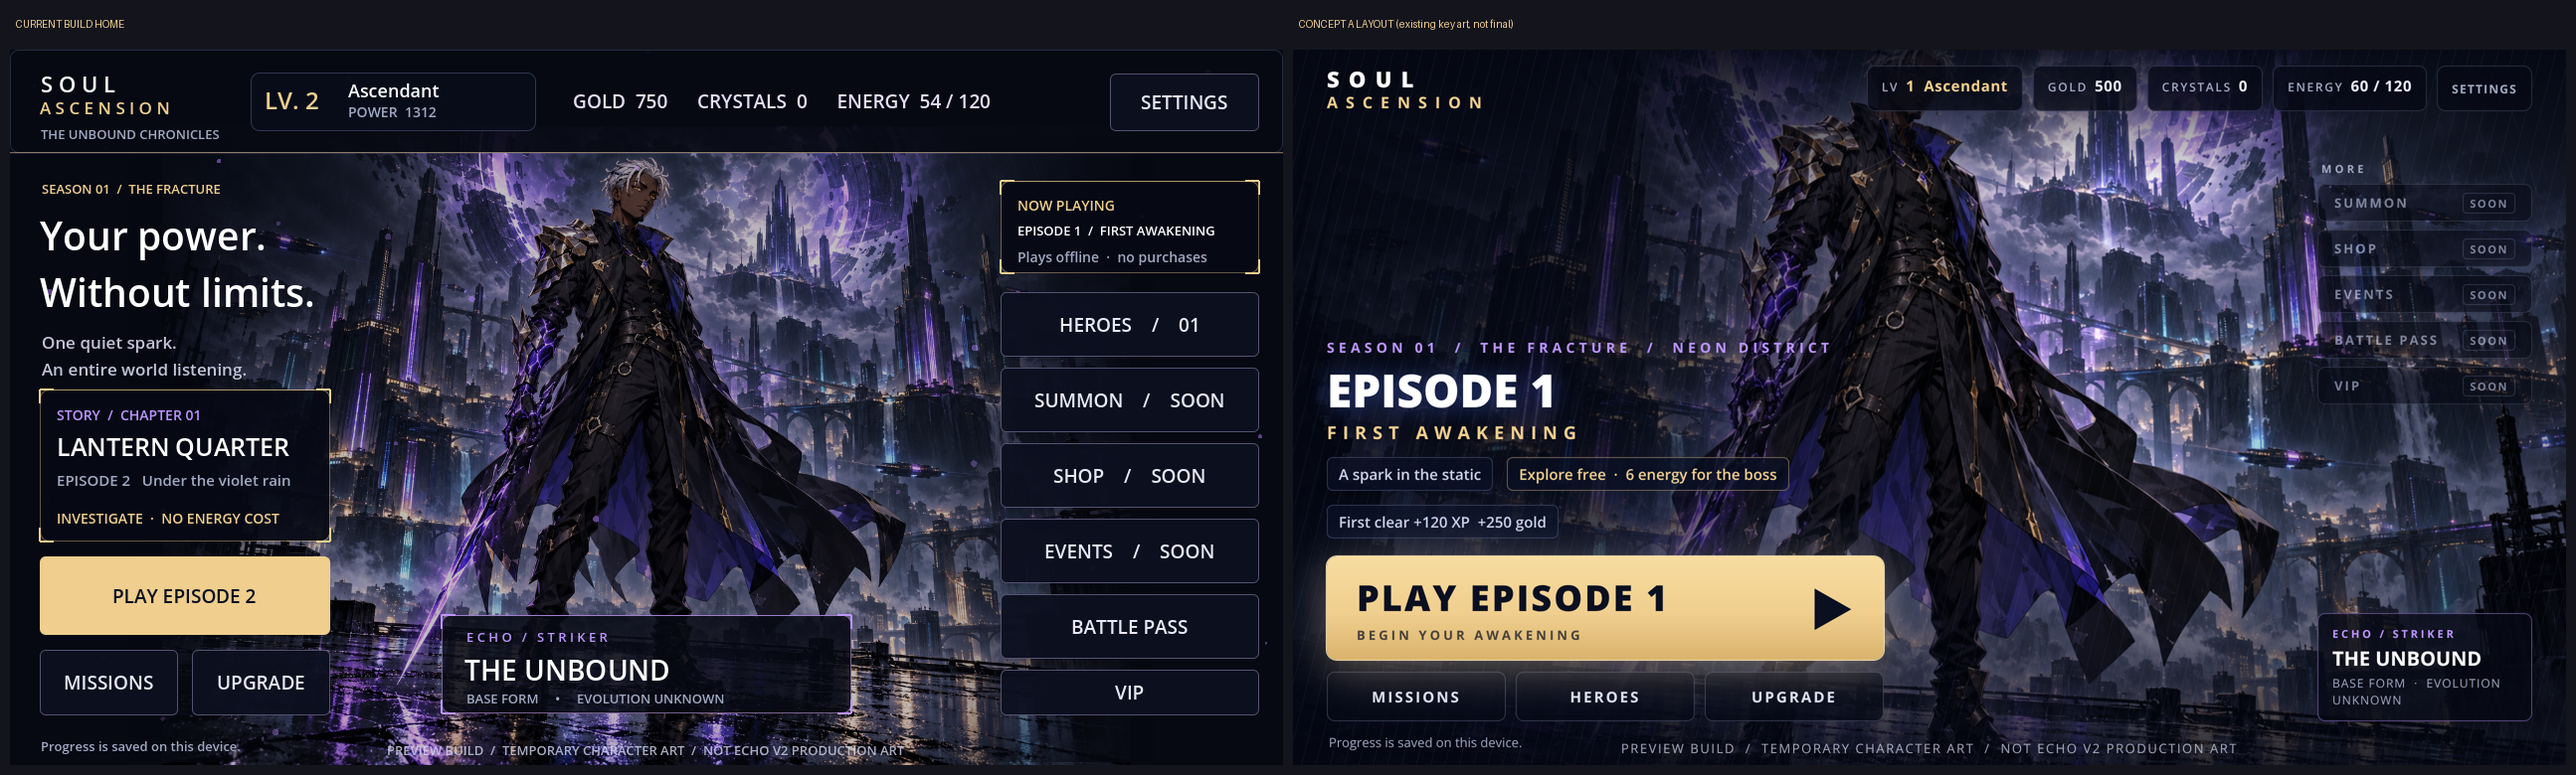
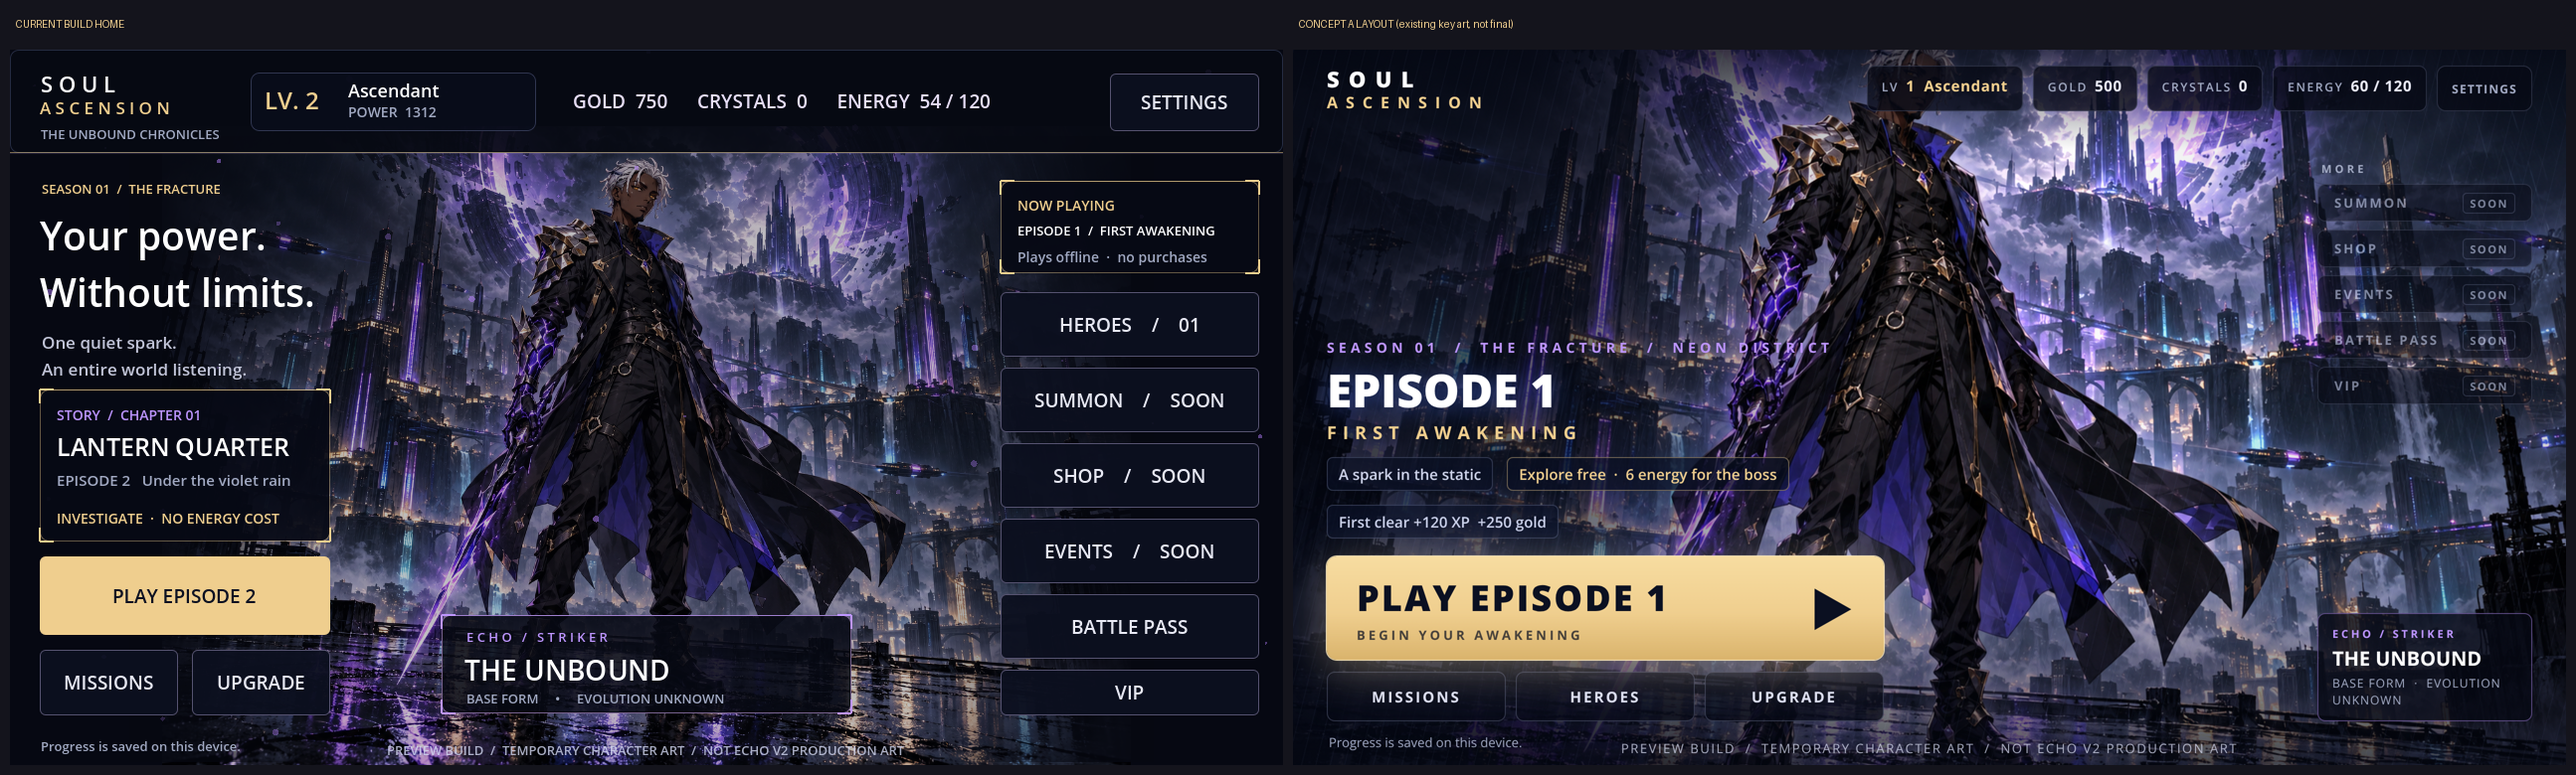
Concept A layout: lighter overlays so the key art keeps its brightness (owner photo comparison)
Claude-Session: https://claude.ai/code/session_01NJ4pFBhCm3yWuxxGGAHNwJ

Changed region(s): [[0.5251, 0.0615, 1.0, 0.9846], [0.9575, 0.3077, 1.0, 0.3692], [0.9266, 0.9231, 0.9575, 0.9538]]

diff --git a/docs/visual_redesign/concept_a/home_concept_a.html b/docs/visual_redesign/concept_a/home_concept_a.html
@@ -4,12 +4,12 @@
 :root{--ink:#0b1021;--gold:#efce8e;--violet:#bd95ff;--muted:#a1a9c2;--panel:rgba(6,9,20,.78);--line:rgba(239,206,142,.42)}
 *{box-sizing:border-box;margin:0;padding:0}
 body{width:1280px;height:720px;overflow:hidden;background:#05070f;font-family:'Open Sans','Inter',sans-serif;color:#e8e9f4;position:relative}
-.art{position:absolute;inset:0;background:url(../../../assets/echo_key_art.png) 50% 36%/cover no-repeat;transform:scale(1.04);transform-origin:60% 40%}
+.art{position:absolute;inset:0;filter:brightness(1.12) saturate(1.1);background:url(../../../assets/echo_key_art.png) 50% 36%/cover no-repeat;transform:scale(1.04);transform-origin:60% 40%}
 .vig{position:absolute;inset:0;background:
- linear-gradient(90deg,rgba(4,7,18,.92) 0%,rgba(4,7,18,.78) 24%,rgba(4,7,18,.18) 50%,rgba(4,7,18,0) 62%,rgba(4,7,18,.35) 100%),
- linear-gradient(0deg,rgba(4,7,18,.85) 0%,rgba(4,7,18,0) 34%),
- linear-gradient(180deg,rgba(4,7,18,.85) 0%,rgba(4,7,18,0) 18%)}
-.rain{position:absolute;inset:0;background:repeating-linear-gradient(104deg,rgba(150,170,255,.05) 0 1px,transparent 1px 14px);mix-blend-mode:screen}
+ linear-gradient(90deg,rgba(4,7,18,.84) 0%,rgba(4,7,18,.62) 22%,rgba(4,7,18,.08) 44%,rgba(4,7,18,0) 58%,rgba(4,7,18,.18) 100%),
+ linear-gradient(0deg,rgba(4,7,18,.72) 0%,rgba(4,7,18,0) 28%),
+ linear-gradient(180deg,rgba(4,7,18,.7) 0%,rgba(4,7,18,0) 14%)}
+.rain{position:absolute;inset:0;background:repeating-linear-gradient(104deg,rgba(150,170,255,.035) 0 1px,transparent 1px 14px);mix-blend-mode:screen}
 /* top bar */
 .top{position:absolute;left:0;right:0;top:0;height:78px;display:flex;align-items:center;padding:0 34px;gap:26px}
 .logo{line-height:1}.logo b{display:block;font-size:22px;letter-spacing:.42em;font-weight:800;color:#fff}.logo i{display:block;font-style:normal;font-size:16px;letter-spacing:.5em;color:var(--gold);margin-top:5px;font-weight:700}
